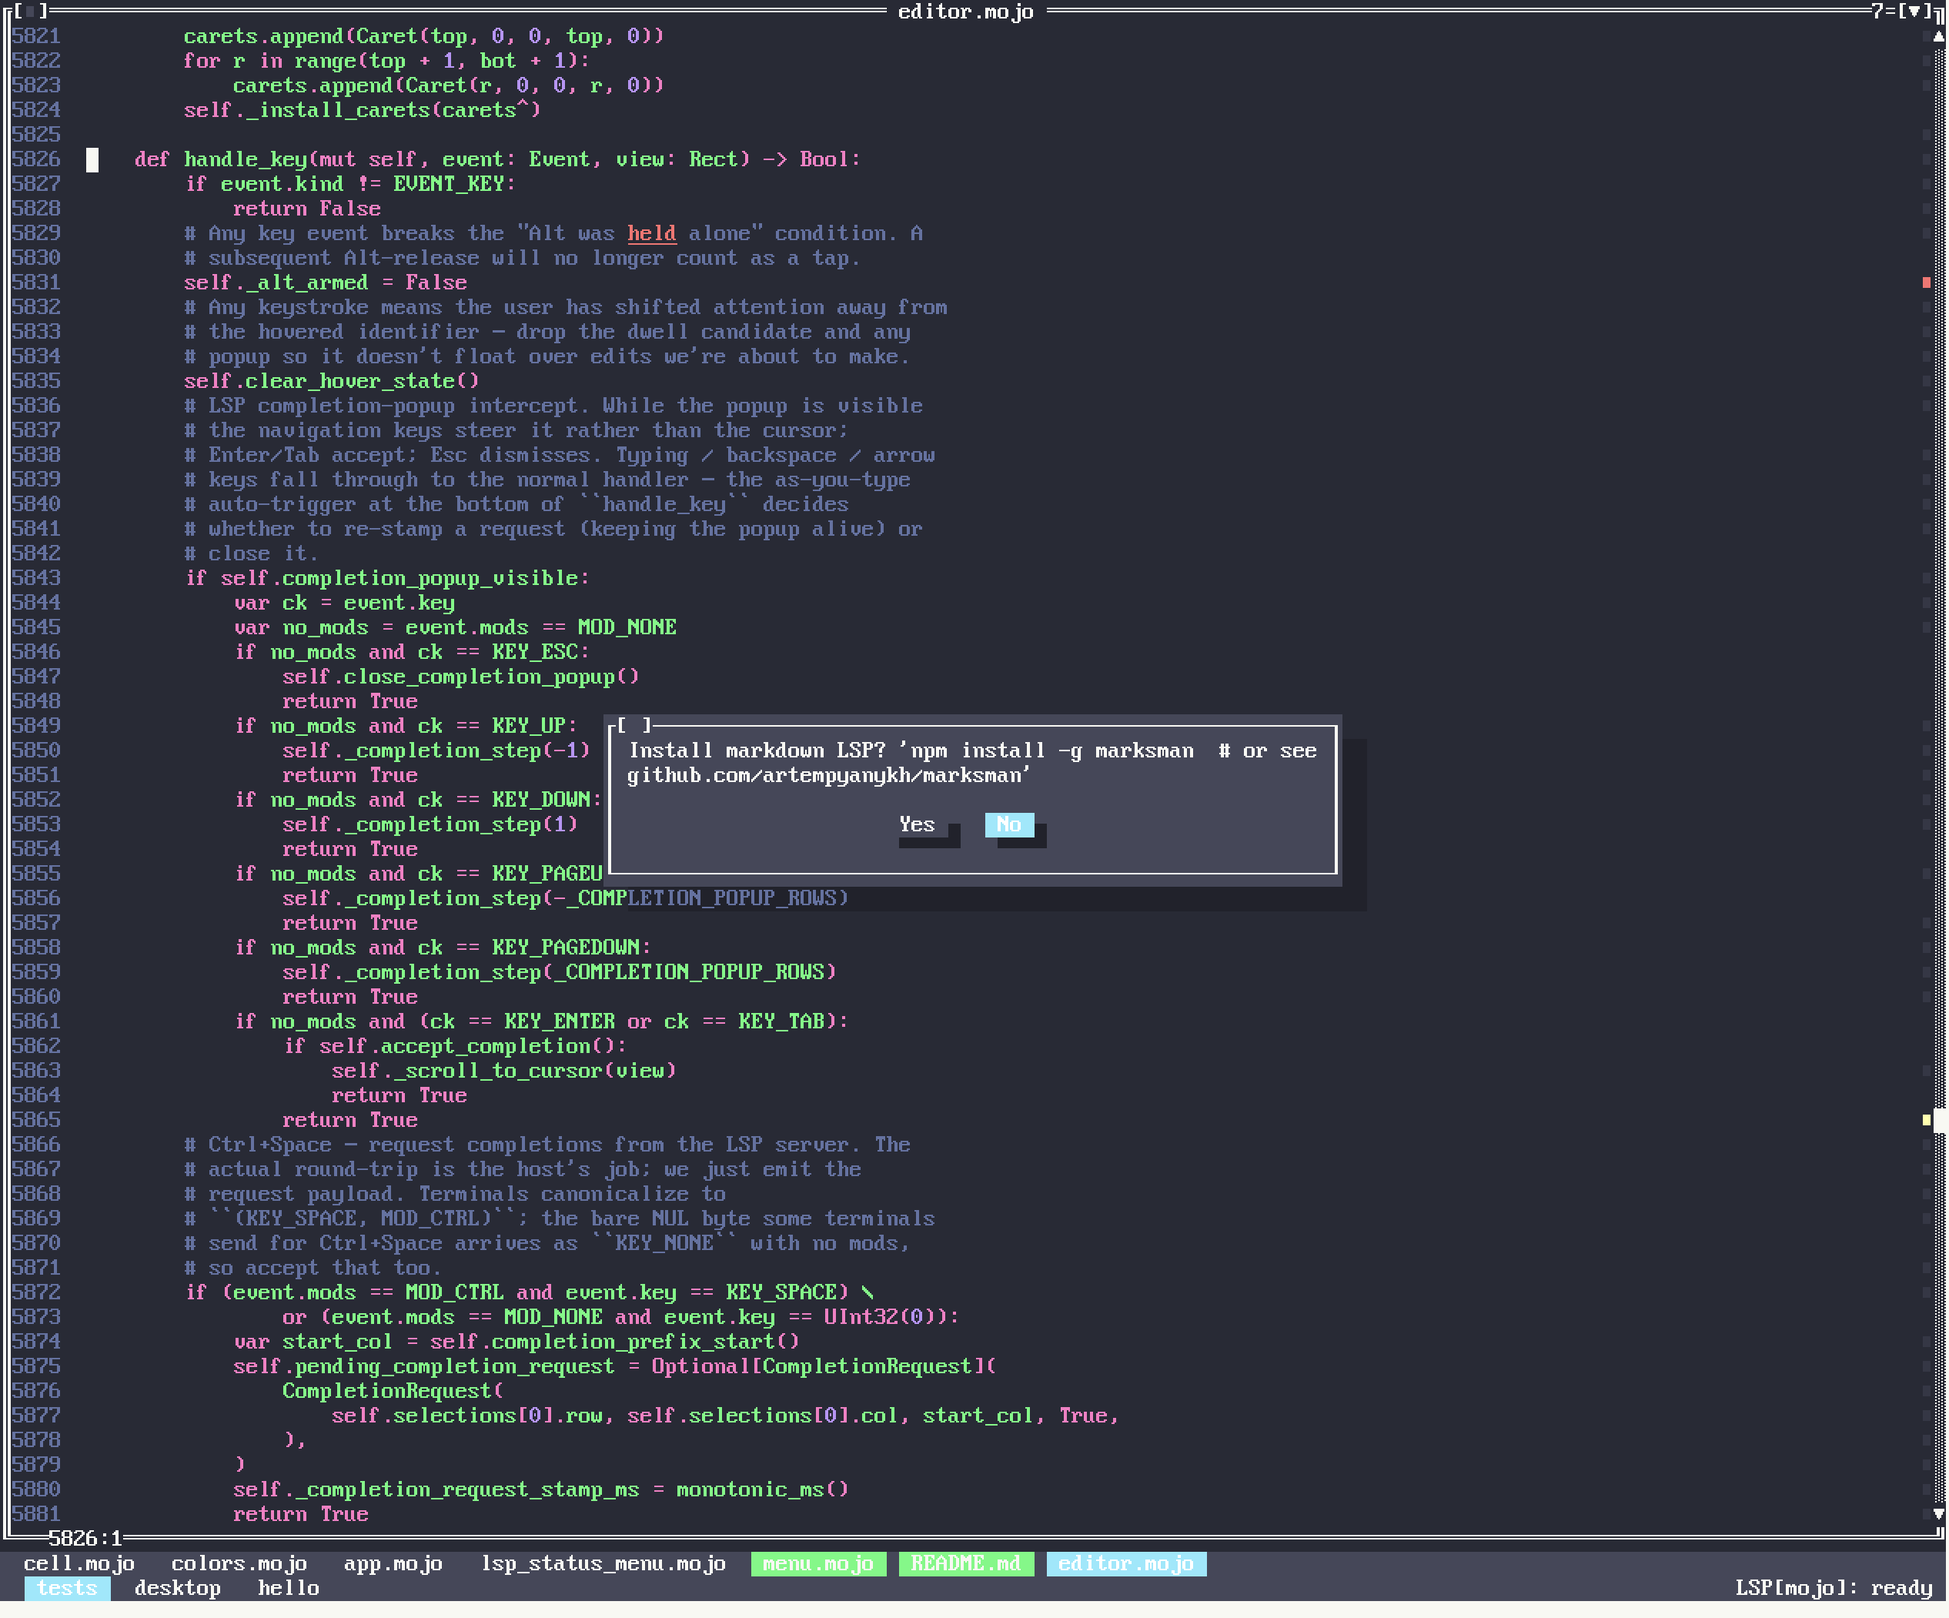
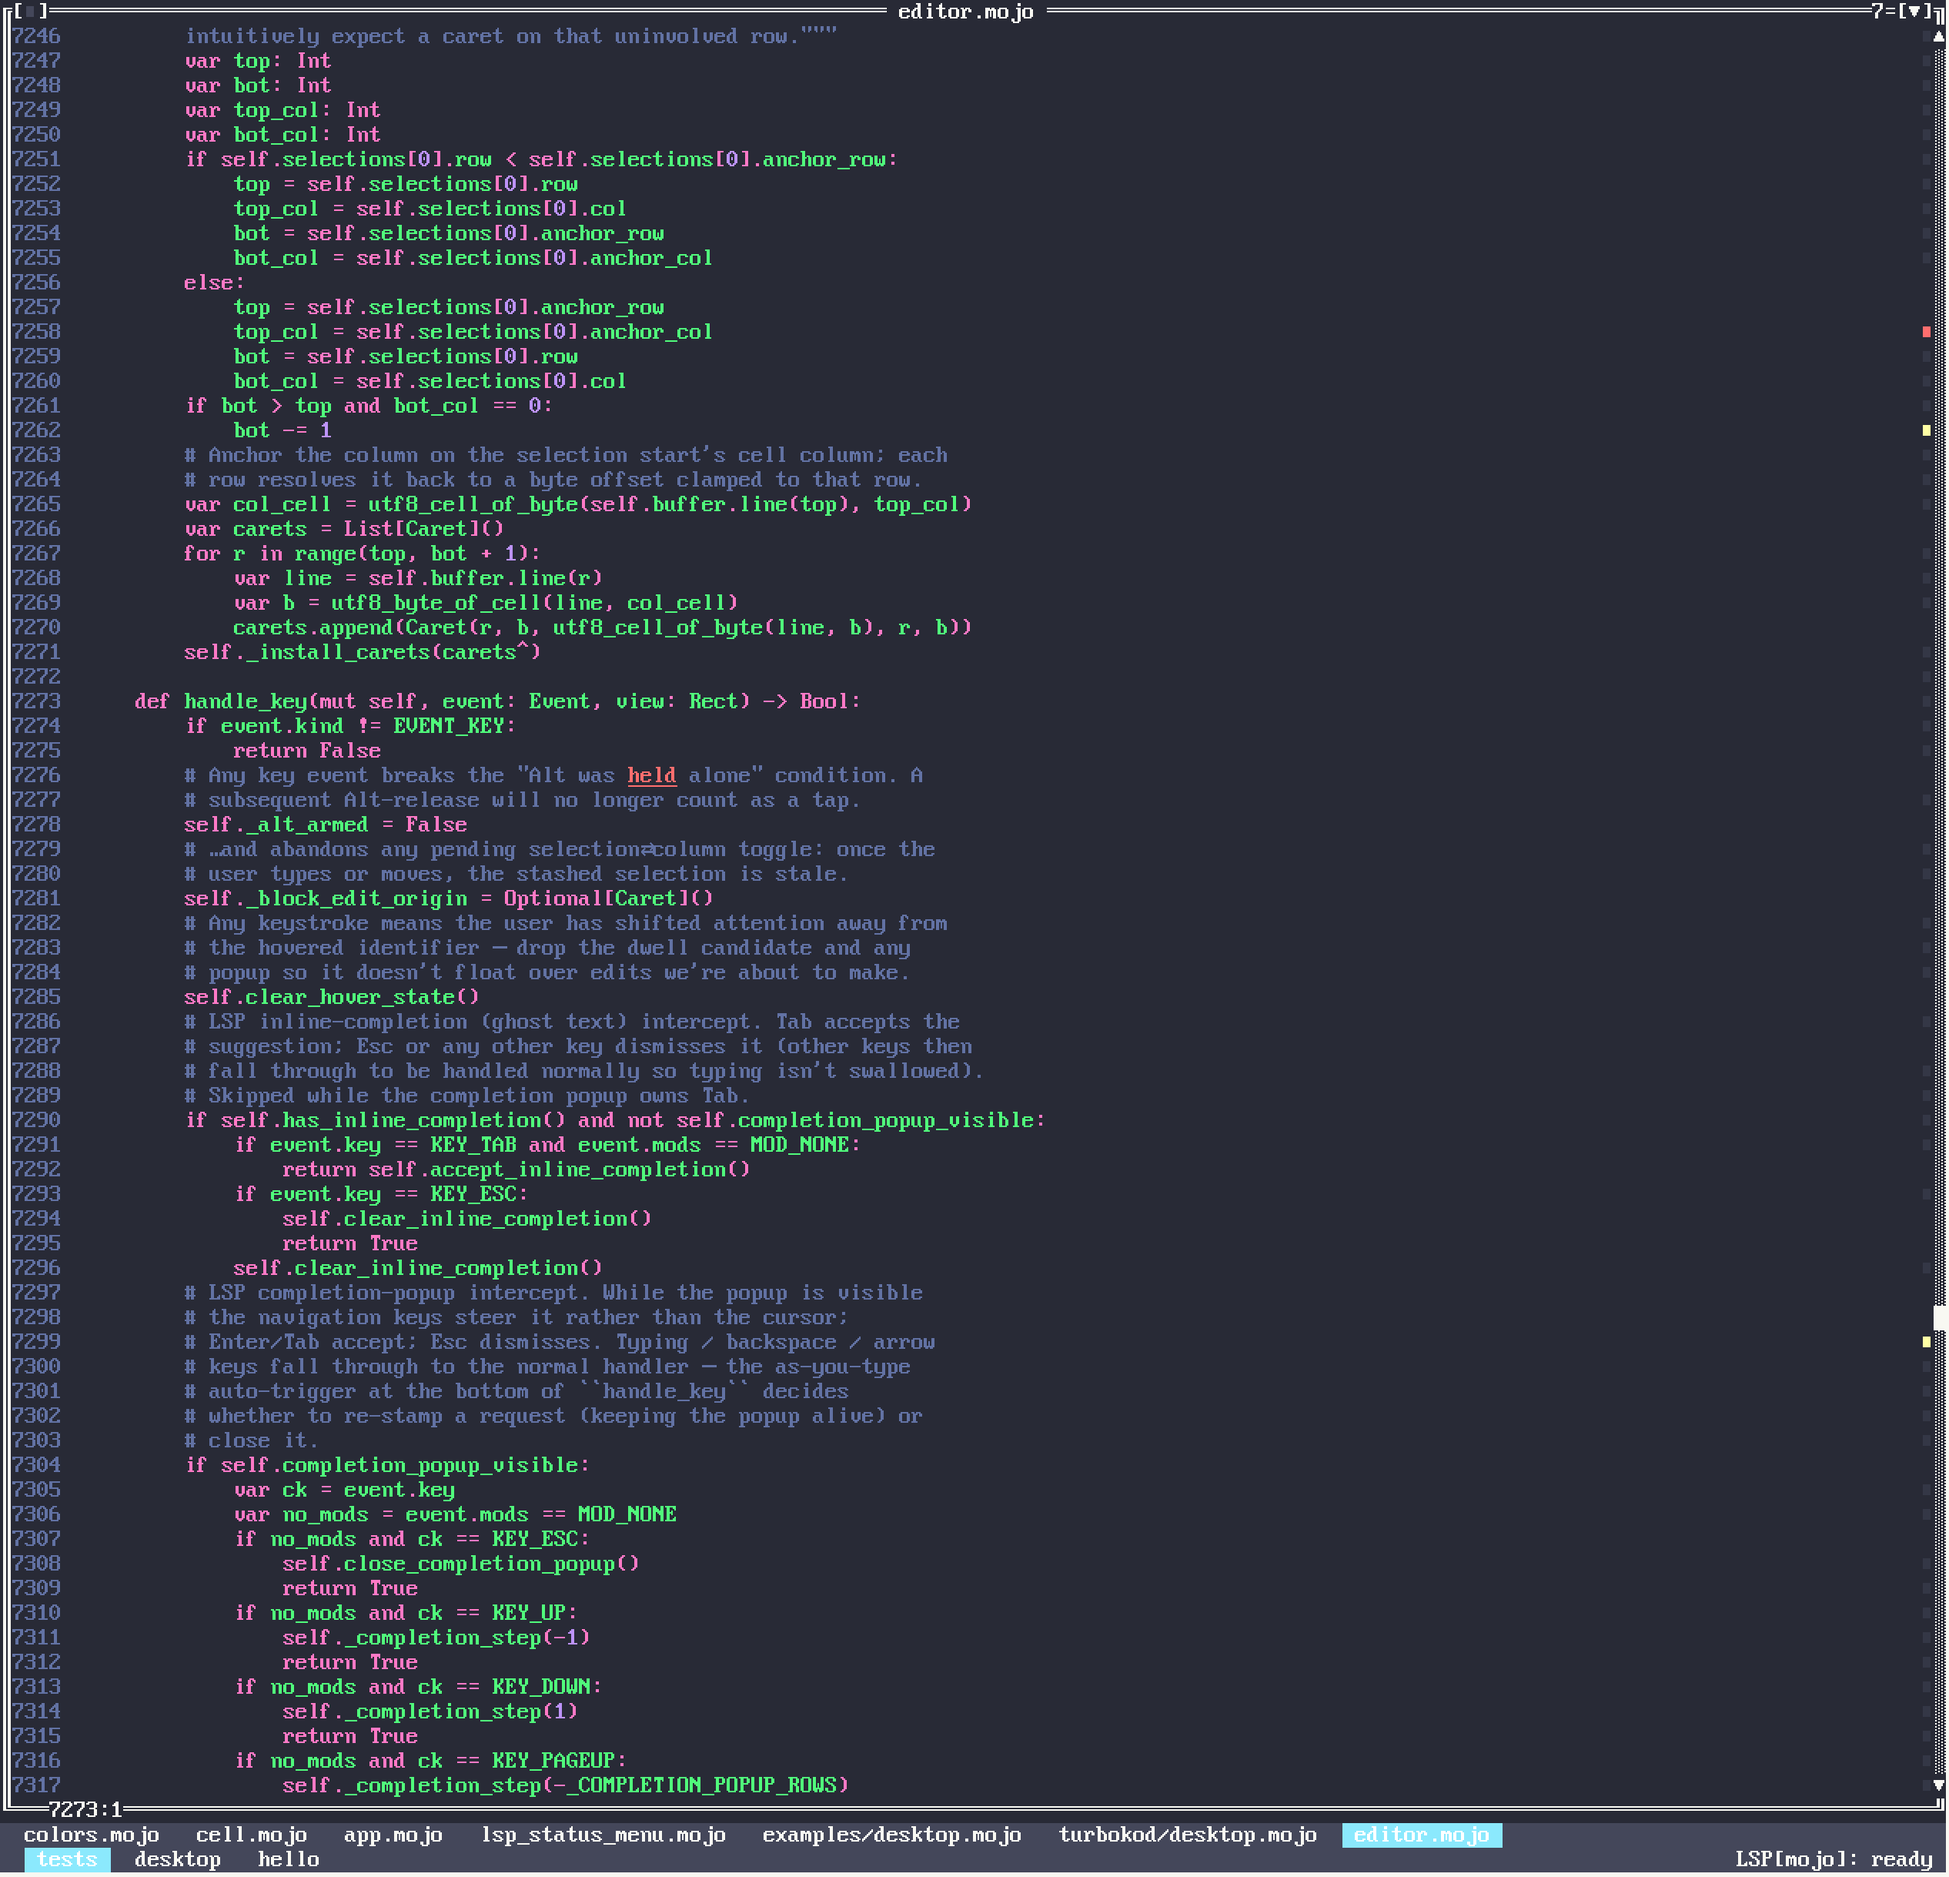
Screenshot code update

diff --git a/app/swift/TurboKod.swift b/app/swift/TurboKod.swift
@@ -1008,8 +1008,39 @@ final class CellView: NSView {
     }
 
     func capturePNG(to path: String) {
-        guard let rep = bitmapImageRepForCachingDisplay(in: bounds) else { return }
-        cacheDisplay(in: bounds, to: rep)
+        // Render the grab into an explicitly hi-DPI bitmap rather than
+        // `bitmapImageRepForCachingDisplay`, whose 1× point-resolution grab
+        // leaves the 8×16 pixel font soft once a viewer scales the PNG. We
+        // allocate `scale`× the pixels (2× by default; TK_CAPTURE_SCALE
+        // overrides), then drive the normal `draw(_:)` through a CTM scaled +
+        // flipped to match the view — so the no-AA pixel font lands on integer
+        // pixel boundaries and each glyph pixel becomes a crisp scale×scale block.
+        let scale = max(1, Int(ProcessInfo.processInfo.environment["TK_CAPTURE_SCALE"]
+                                ?? "2") ?? 2)
+        let pw = Int((bounds.width * CGFloat(scale)).rounded())
+        let ph = Int((bounds.height * CGFloat(scale)).rounded())
+        guard pw > 0, ph > 0,
+              let rep = NSBitmapImageRep(
+                bitmapDataPlanes: nil, pixelsWide: pw, pixelsHigh: ph,
+                bitsPerSample: 8, samplesPerPixel: 4, hasAlpha: true,
+                isPlanar: false, colorSpaceName: .deviceRGB,
+                bytesPerRow: 0, bitsPerPixel: 0),
+              let base = NSGraphicsContext(bitmapImageRep: rep) else { return }
+        // 1 unit == 1 pixel in the rep's context; our CTM does points→pixels.
+        rep.size = NSSize(width: pw, height: ph)
+        let cg = base.cgContext
+        cg.scaleBy(x: CGFloat(scale), y: CGFloat(scale))   // points → pixels
+        cg.translateBy(x: 0, y: bounds.height)             // flip y to match
+        cg.scaleBy(x: 1, y: -1)                            // the flipped view
+        // Wrap the y-flipped CG context as a *flipped* NSGraphicsContext so
+        // NSString.draw() lays glyphs out right-side-up (text honors the NS
+        // context's flippedness, not just the raw CTM).
+        let nsctx = NSGraphicsContext(cgContext: cg, flipped: true)
+        NSGraphicsContext.saveGraphicsState()
+        NSGraphicsContext.current = nsctx
+        draw(bounds)
+        nsctx.flushGraphics()
+        NSGraphicsContext.restoreGraphicsState()
         if let data = rep.representation(using: .png, properties: [:]) {
             try? data.write(to: URL(fileURLWithPath: path))
         }
